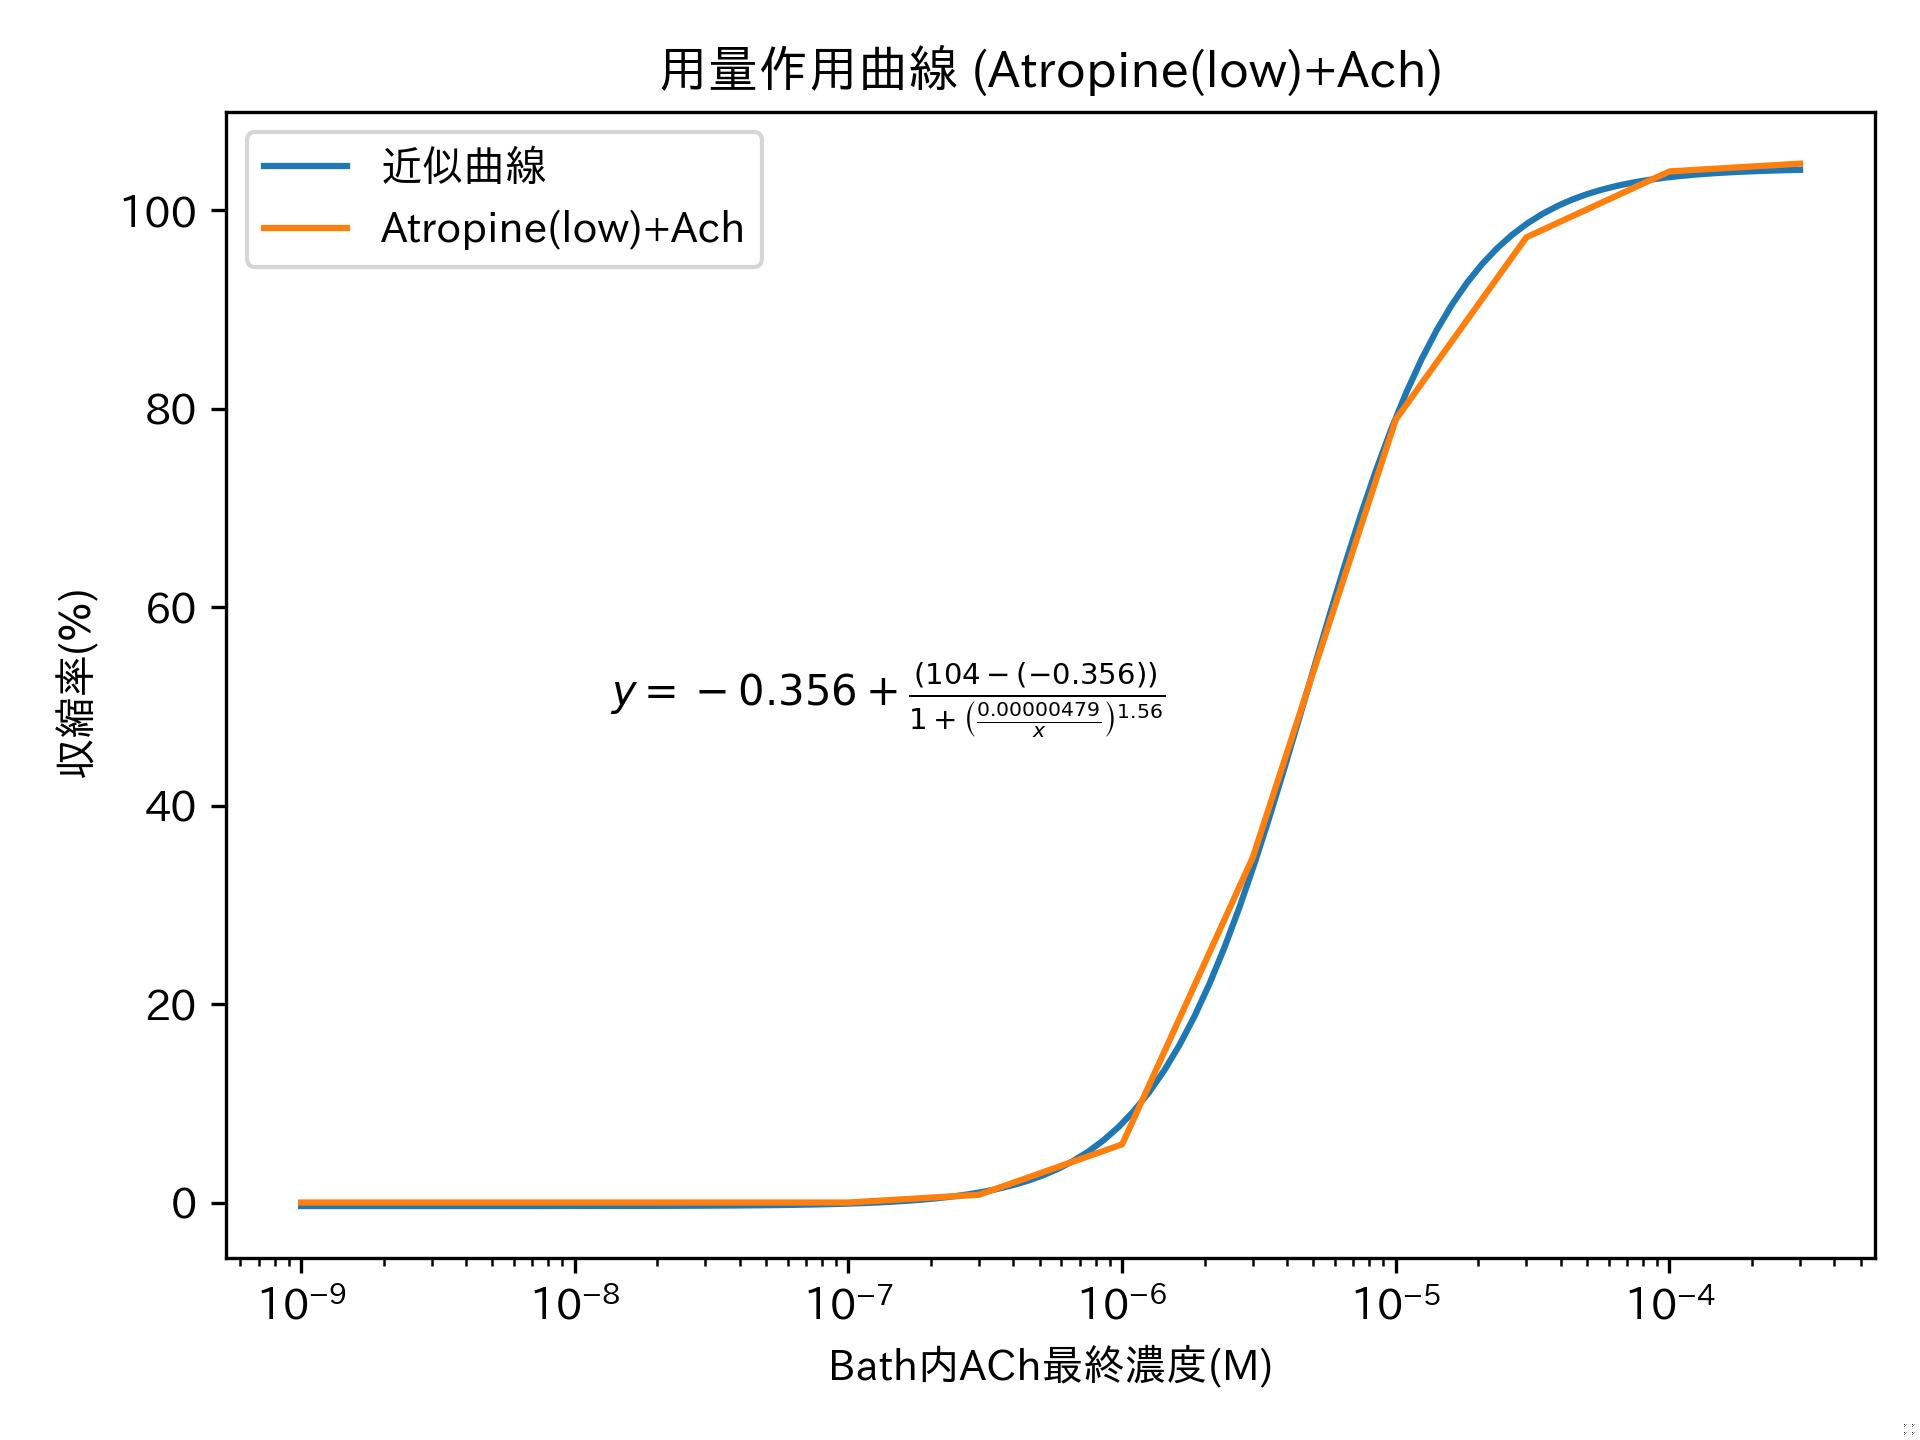
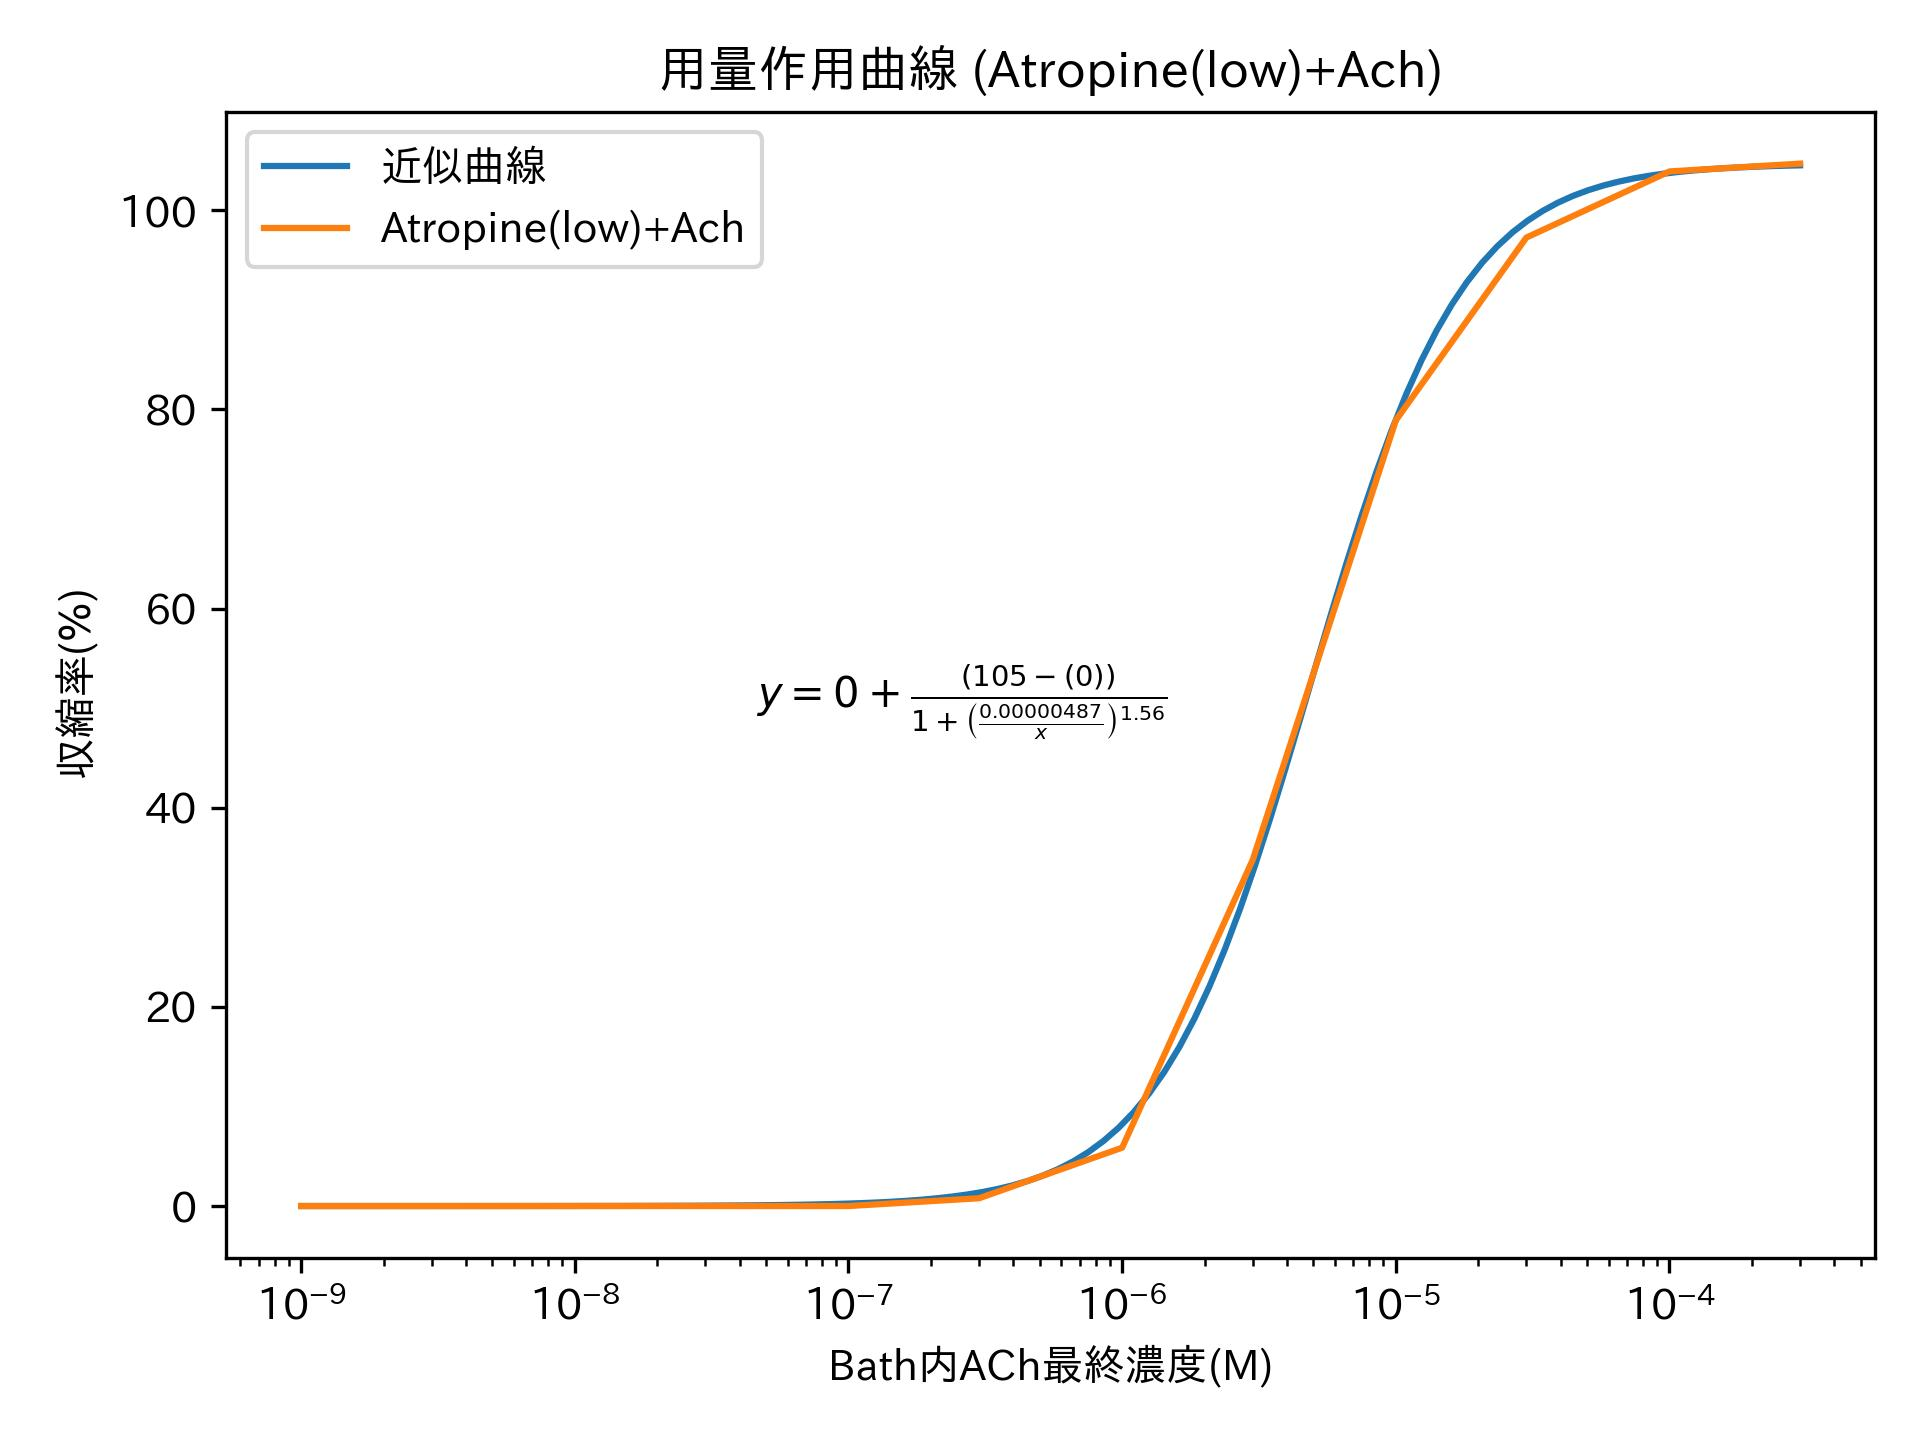
Secondary commit

diff --git a/main2.py b/main2.py
@@ -11,30 +11,26 @@ getcontext().prec = 3
 
 """
 ACh 1回目の最適化パラメータ: 
-	a = 3.79
-	b = 91.0
-	c = 1.32
-	EC50 = 4.47E-7
+	a = 1.56
+	b = 89.1
+	c = 1.30
+	EC50 = 4.00E-7
 ACh 2回目の最適化パラメータ: 
 	a = 0
 	b = 100
 	c = 1.39
 	EC50 = 1.69E-7
 Atropine(low)+Achの最適化パラメータ: 
-	a = -0.356
-	b = 104
+	a = 0
+	b = 105
 	c = 1.56
-	EC50 = 0.00000479
+	EC50 = 0.00000487
 Atropine(high)+Achの最適化パラメータ: 
-	a = -0.0538
-	b = 99.4
-	c = 2.90
-	EC50 = 0.0000617
-Papaverine+Achの最適化パラメータ: 
-	a = 10.4
-	b = 15.8
-	c = 13.9
-	EC50 = 0.00000945
+	a = 0
+	b = 98.4
+	c = 2.95
+	EC50 = 0.0000610
+Pap Could not be fitted.
 """
 
 #input
@@ -100,41 +96,35 @@ def graph_with_curve(key, img_name, output_path="/Users/kotaro/Desktop/", title=
         popt_temp, _ = curve_fit(
             lambda x, c, EC50: min(Shrinkages[key]) + (max(Shrinkages[key]) - min(Shrinkages[key])) / (
                         1 + (EC50 / x) ** c), Concs[key], Shrinkages[key])
-        a, b, c, EC50 = popt_temp
-        temp_params = {"a": a,
-                       "b": b,
-                       "c": c,
-                       "EC50": EC50}
     except RuntimeError:
-        popt_temp, _ = curve_fit(
-            lambda x, c, EC50: min(Shrinkages[key]) + (max(Shrinkages[key]) - min(Shrinkages[key])) / (
-                        1 + (EC50 / x) ** c), Concs[key], Shrinkages[key])
-        c, EC50 = popt_temp
-        temp_params = {"a": min(Shrinkages[key]),
-                       "b": max(Shrinkages[key]),
-                       "c": c,
-                       "EC50": EC50}
-    finally:
-        plt.plot(x, temp_params["a"] + (temp_params["b"] - temp_params["a"]) / (
-                    1 + (temp_params["EC50"] / x) ** temp_params["c"]), label="近似曲線")
-        for param in temp_params:
-            temp_params[param] = Decimal(temp_params[param])
-        if min(Shrinkages[key]) > 0:
-            latex_formula = r'$y = {a} + \frac{{({b} - {a})}}{{1 + \left(\frac{{{EC50}}}{{x}} \right)^{{{c}}}}}$'.format(
-                a=+temp_params["a"], b=+temp_params["b"], c=+temp_params["c"], EC50=+temp_params["EC50"])
-        else:
-            latex_formula = r'$y = {a} + \frac{{({b} - ({a}))}}{{1 + \left(\frac{{{EC50}}}{{x}} \right)^{{{c}}}}}$'.format(
-                a=+temp_params["a"], b=+temp_params["b"], c=+temp_params["c"], EC50=+temp_params["EC50"])
-        if max(Shrinkages[key]) > 80:
-            plt.text(EC50*0.3, 50, latex_formula, horizontalalignment="right")
-        else:
-            plt.text(10**-9, max(Shrinkages[key])*0.7, latex_formula, horizontalalignment="left")
-        plt.plot(Concs[key], Shrinkages[key], label=labels[key])
-        graph_processing(img_name, output_path, title=" (" + labels[key] + ")")
-        print(labels[key] + "の最適化パラメータ: ")
-        for param in temp_params:
-            print("\t{} = {}".format(param, +temp_params[param]))
+        print(key,"Could not be fitted.")
         return None
+    c, EC50 = popt_temp
+    temp_params = {"a": min(Shrinkages[key]),
+                   "b": max(Shrinkages[key]),
+                   "c": c,
+                   "EC50": EC50}
+
+    plt.plot(x, temp_params["a"] + (temp_params["b"] - temp_params["a"]) / (
+                1 + (temp_params["EC50"] / x) ** temp_params["c"]), label="近似曲線")
+    for param in temp_params:
+        temp_params[param] = Decimal(temp_params[param])
+    if min(Shrinkages[key]) > 0:
+        latex_formula = r'$y = {a} + \frac{{({b} - {a})}}{{1 + \left(\frac{{{EC50}}}{{x}} \right)^{{{c}}}}}$'.format(
+            a=+temp_params["a"], b=+temp_params["b"], c=+temp_params["c"], EC50=+temp_params["EC50"])
+    else:
+        latex_formula = r'$y = {a} + \frac{{({b} - ({a}))}}{{1 + \left(\frac{{{EC50}}}{{x}} \right)^{{{c}}}}}$'.format(
+            a=+temp_params["a"], b=+temp_params["b"], c=+temp_params["c"], EC50=+temp_params["EC50"])
+    if max(Shrinkages[key]) > 80:
+        plt.text(EC50*0.3, 50, latex_formula, horizontalalignment="right")
+    else:
+        plt.text(10**-9, max(Shrinkages[key])*0.7, latex_formula, horizontalalignment="left")
+    plt.plot(Concs[key], Shrinkages[key], label=labels[key])
+    graph_processing(img_name, output_path, title=" (" + labels[key] + ")")
+    print(labels[key] + "の最適化パラメータ: ")
+    for param in temp_params:
+        print("\t{} = {}".format(param, +temp_params[param]))
+    return None
 
 def main():
     graph_by_list(samples, "yakusaku", output_path="")
